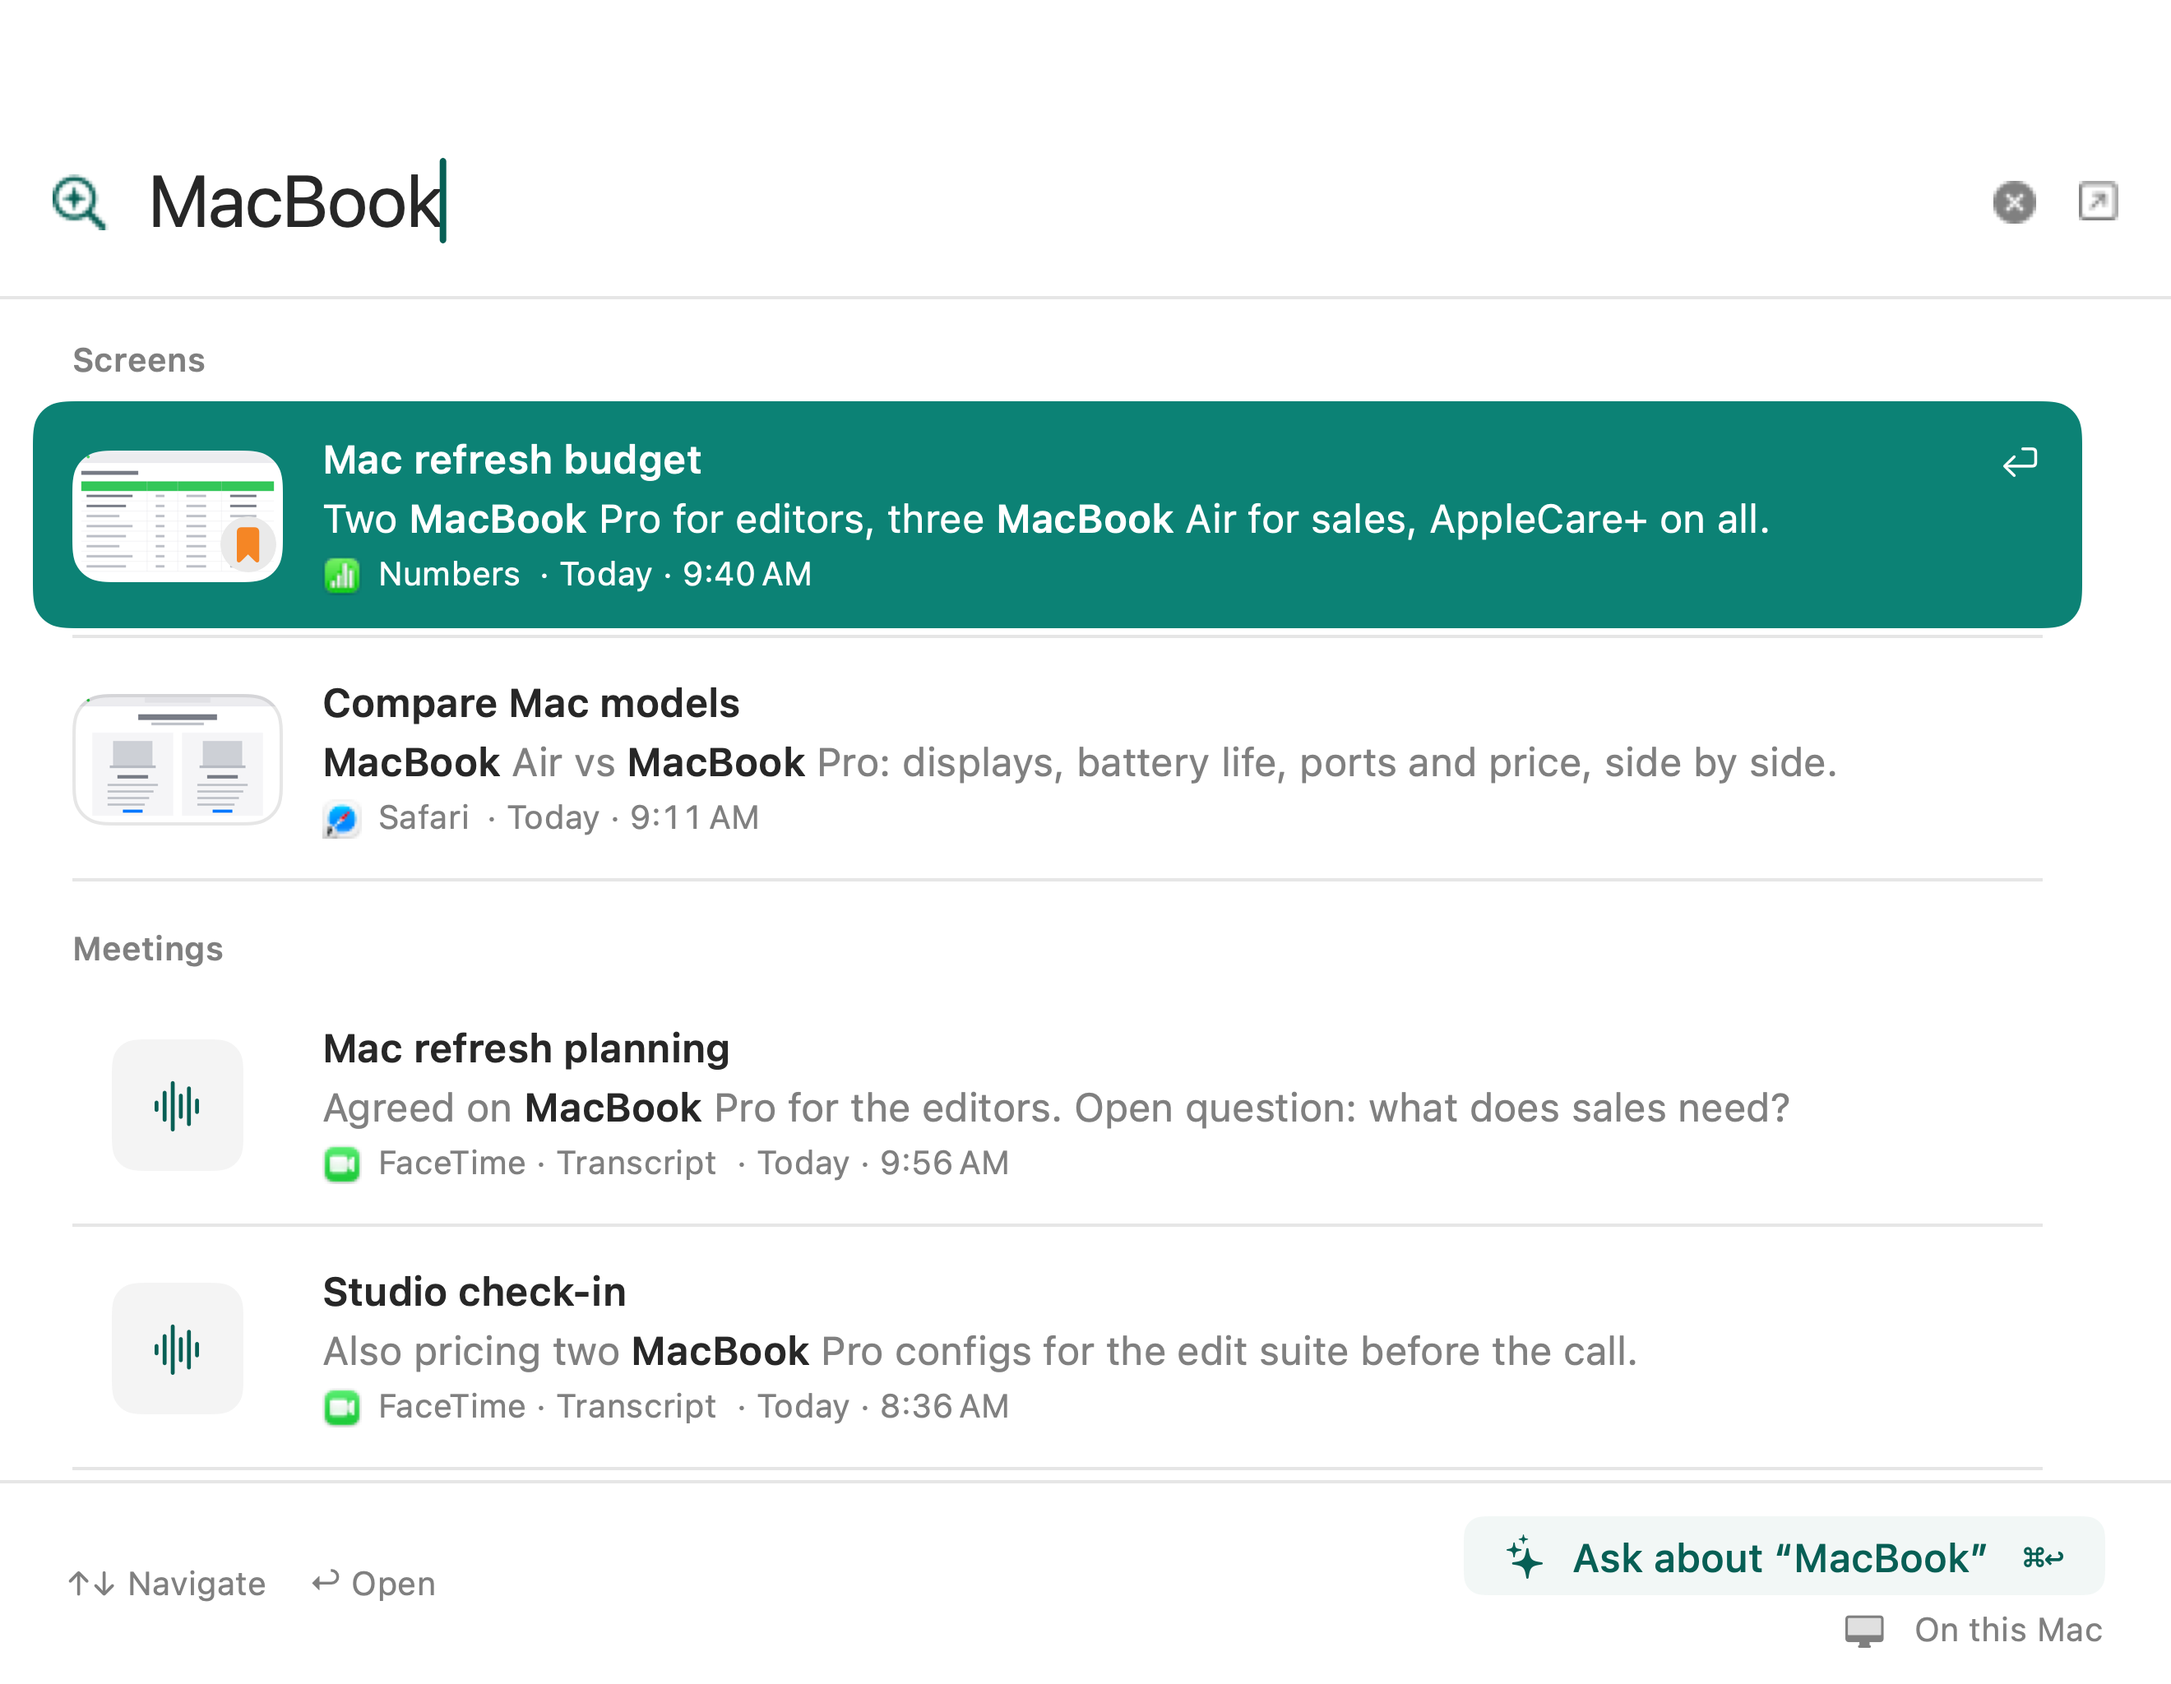
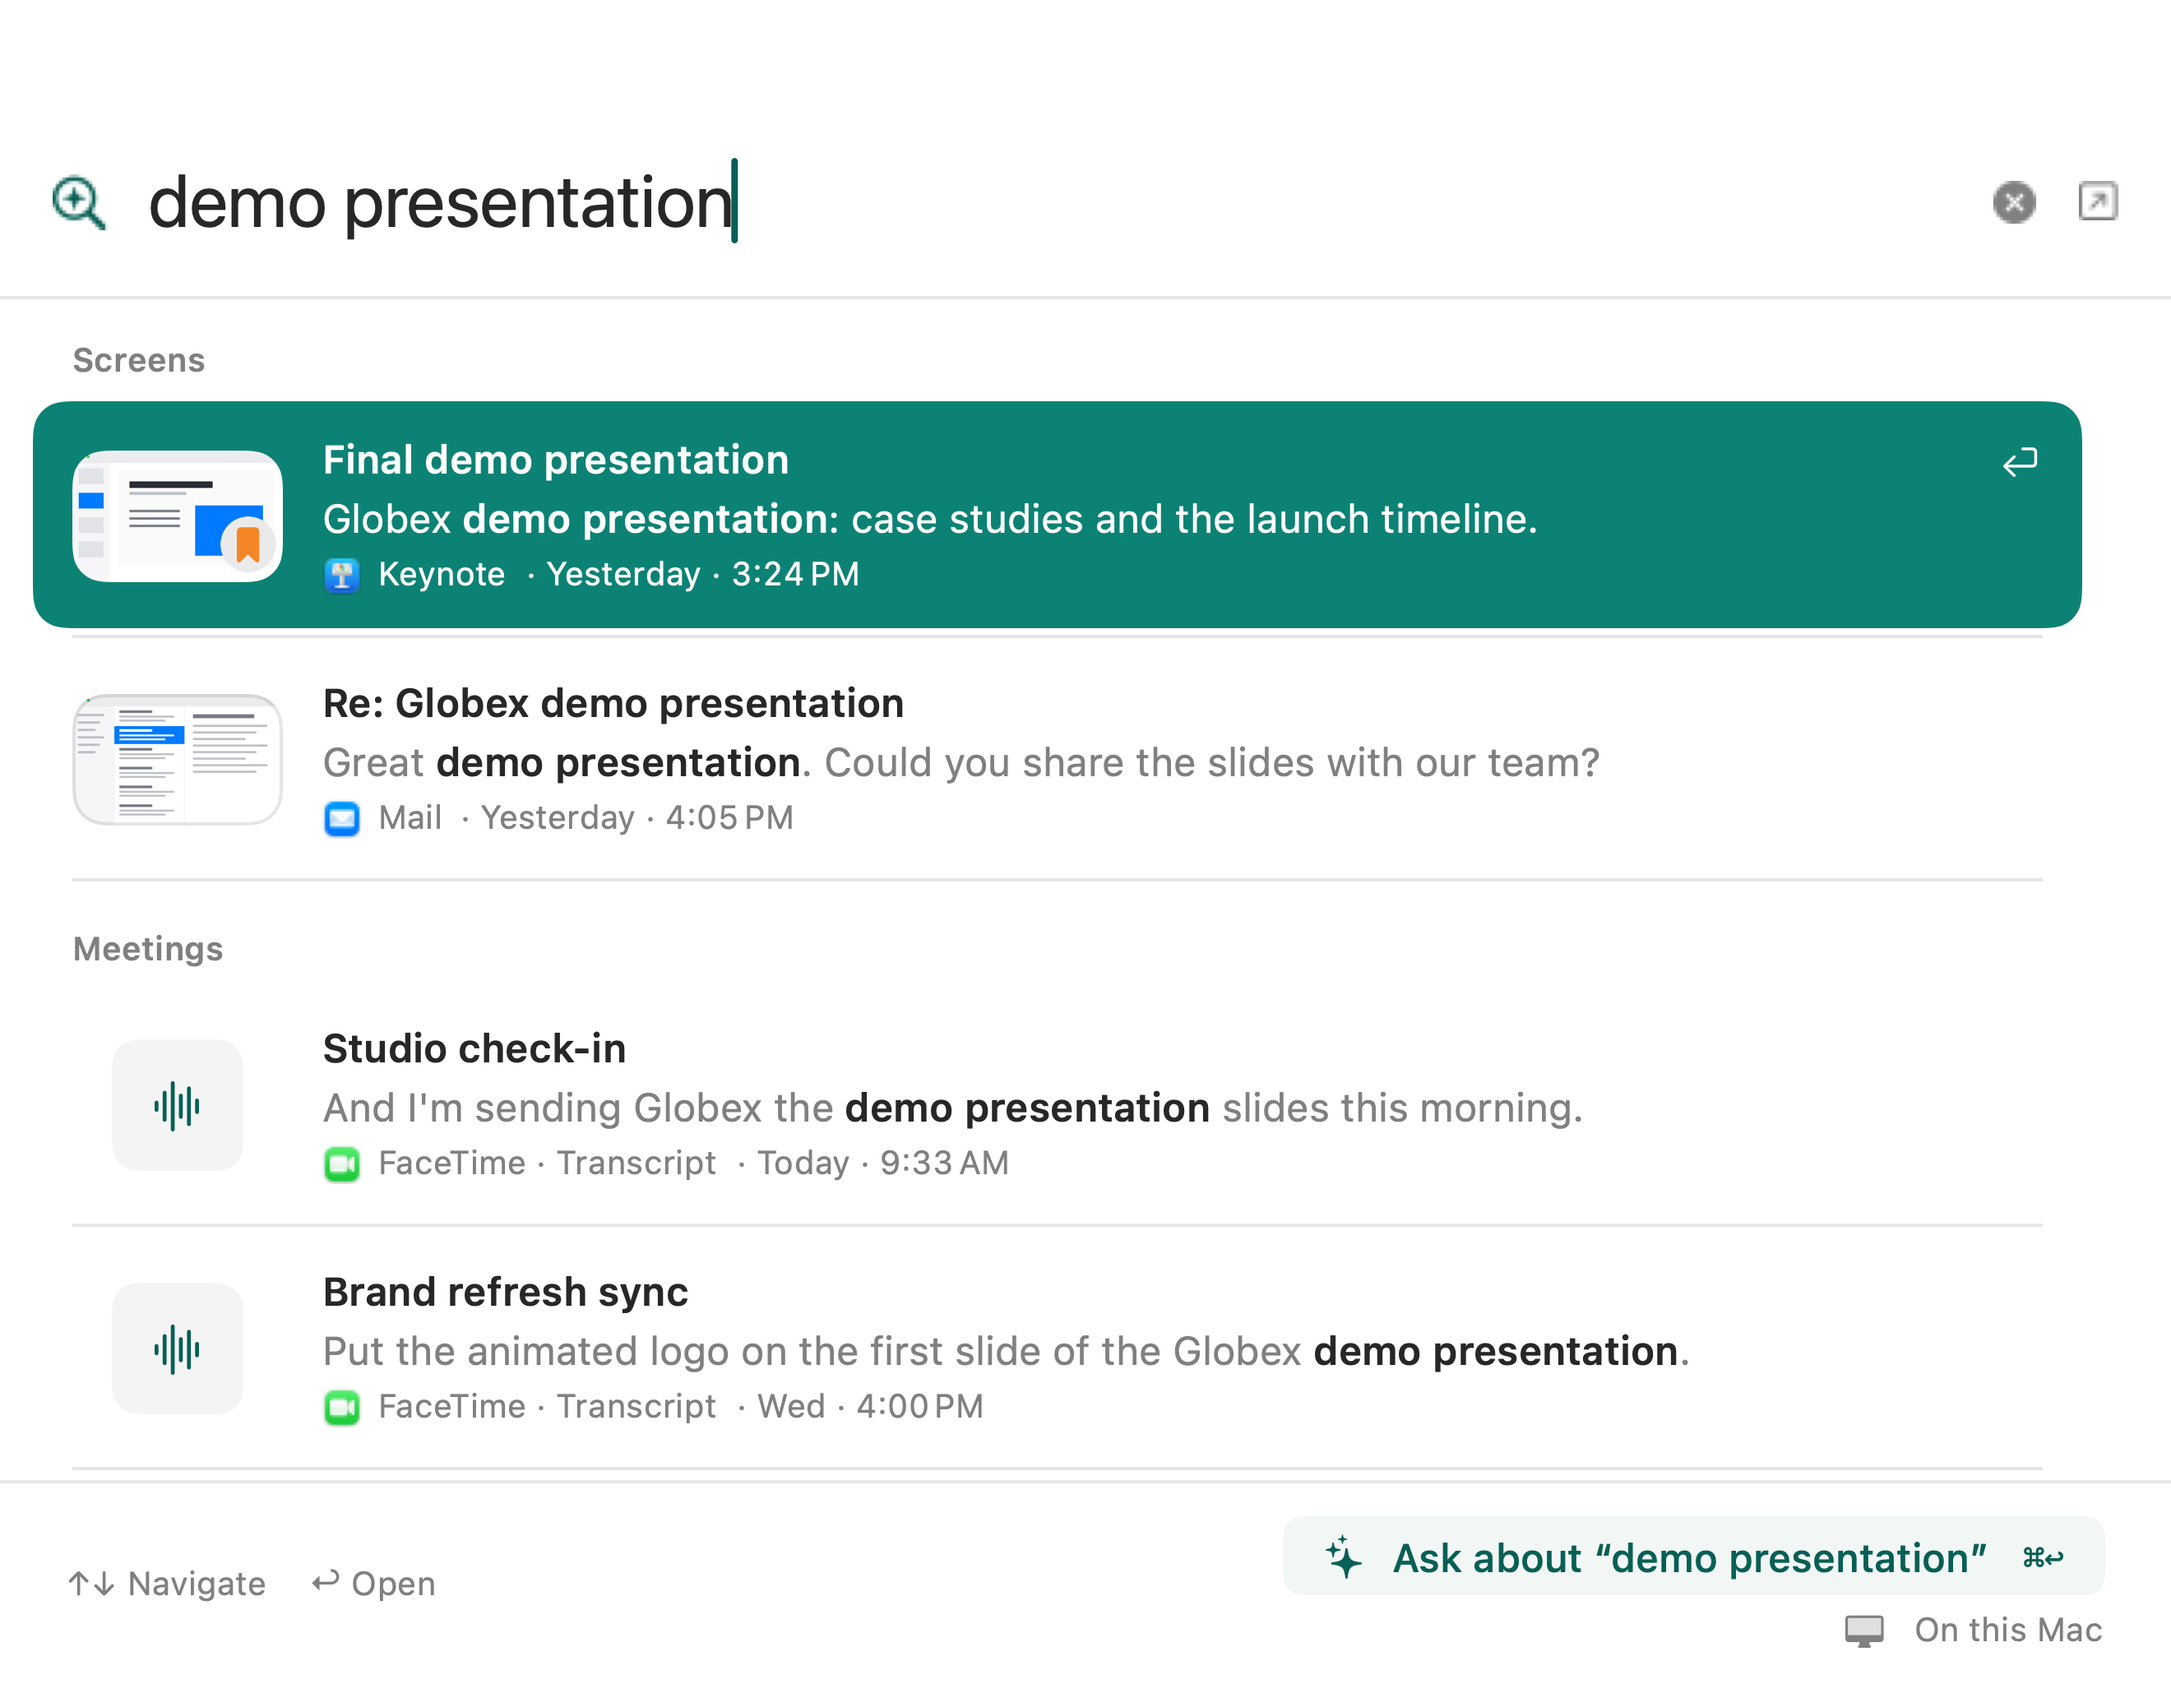
Search for a demo presentation in the homepage hero
The headline already ends "on your Mac", so a "MacBook" search beside it
repeated the word. The hero now searches "demo presentation": the saved
Globex deck in Keynote and the client's reply in Mail, then two FaceTime
calls that mention it.

The studio profile adds those two moments yesterday, outside the podcast
call so its README meeting window stays as captured, and one line each to
the brand refresh sync and the studio check-in. Today's data is unchanged, so
the other committed screenshots still match the profile.

diff --git a/web/index.html b/web/index.html
@@ -251,7 +251,7 @@
             <source srcset="assets/screens/quick-recall-phone-light.png" media="(max-width: 520px) and (prefers-color-scheme: light)" width="1600" height="1370" />
             <source srcset="assets/screens/quick-recall-phone.png" media="(max-width: 520px)" width="1600" height="1370" />
             <source srcset="assets/screens/quick-recall-light.png" media="(prefers-color-scheme: light)" width="2640" height="2048" />
-            <img src="assets/screens/quick-recall.png" width="2640" height="2048" alt="A MacBook search shows a saved Numbers budget, a Safari comparison page, FaceTime call transcripts, and a separate Ask action." fetchpriority="high" />
+            <img src="assets/screens/quick-recall.png" width="2640" height="2048" alt="A search for “demo presentation” shows a saved Keynote deck, a client reply in Mail, FaceTime call transcripts, and a separate Ask action." fetchpriority="high" />
           </picture>
         </a>
         <figcaption>One search across saved moments, screen text, and meetings.</figcaption>

diff --git a/Scripts/seed_demo_library.py b/Scripts/seed_demo_library.py
@@ -749,9 +749,11 @@ def build_studio(now):
     """A small video studio's meetings: FaceTime calls and Apple apps instead of
     engineering work. Each captured surface gets its own topic: the holiday
     shoot (website meeting and README hero), the podcast trailer (README
-    meeting section), the Mac refresh ("MacBook" search) and delivery captions
-    ("captions" search). Keep "MacBook" and "captions" out of other meetings so
-    those searches return the intended rows."""
+    meeting section), the Globex demo presentation (the website's "demo
+    presentation" search), the Mac refresh ("MacBook" search) and delivery
+    captions ("captions" search). Keep "MacBook", "captions" and "demo
+    presentation" out of other meetings so those searches return the intended
+    rows."""
     def ago(days, hour, minute=0):
         base = now - timedelta(days=days)
         return base.replace(hour=hour, minute=minute, second=0, microsecond=0)
@@ -801,6 +803,7 @@ def build_studio(now):
               seg(0, 9, "me", "Quick check-in. I'm finishing the Northwind holiday cut today."),
               seg(9, 20, "me", "Blocker: 4K exports still crawl on the old laptops."),
               seg(20, 32, "me", "Also pricing two MacBook Pro configs for the edit suite before the call."),
+              seg(32, 44, "me", "And I'm sending Globex the demo presentation slides this morning."),
           ],
           "## TL;DR\nThe Northwind holiday cut wraps today; slow exports on the old laptops are the blocker.\n\n"
           "## Action items\n- [ ] Finish the Northwind holiday cut — Me\n- [ ] Price two laptop configs for the edit suite — Me"),
@@ -842,6 +845,7 @@ def build_studio(now):
               seg(0, 16, "me", "The new logo lockups shipped. The remaining gap is the motion version."),
               seg(16, 34, "them", "I'll deliver the animated logo in Keynote and as a ProRes file by Friday."),
               seg(34, 50, "me", "Then we can close the brand refresh next week."),
+              seg(50, 64, "them", "Put the animated logo on the first slide of the Globex demo presentation."),
           ],
           "## TL;DR\nThe brand refresh is nearly done; the animated logo lands Friday.\n\n"
           "## Action items\n- [ ] Animated logo in Keynote and ProRes — Them"),
@@ -1067,7 +1071,9 @@ def seed_studio_activity(root):
             ("Google Meet", "Podcast trailer review", 10 * 60 + 15, 10 * 60 + 45),
             ("Keynote", "Holiday campaign deck", 11 * 60, 12 * 60 + 30),
             ("Safari", "AppleCare for business", 13 * 60 + 30, 14 * 60 + 45),
-            ("Messages", "Studio team", 14 * 60 + 45, 15 * 60 + 10)],
+            ("Messages", "Studio team", 14 * 60 + 45, 15 * 60 + 10),
+            ("Keynote", "Globex demo presentation", 15 * 60 + 15, 15 * 60 + 35),
+            ("Mail", "Re: Globex demo presentation", 16 * 60, 16 * 60 + 15)],
         2: [("Microsoft Teams", "Client call - Northwind", 9 * 60 + 45, 10 * 60 + 25),
             ("Pages", "Delivery checklist", 10 * 60 + 30, 12 * 60),
             ("FaceTime", "Brand refresh sync", 14 * 60, 14 * 60 + 30),
@@ -1086,33 +1092,42 @@ def seed_studio_activity(root):
             cur.execute("INSERT INTO activity_blocks (app,title,start,end) VALUES (?,?,?,?)",
                         (app, title, midnight + a * 60, midnight + b * 60))
 
-    shot_dir = os.path.join(root, "activity", datetime.now().strftime("%Y-%m-%d"), "demo")
-    os.makedirs(shot_dir, exist_ok=True)
+    yesterday = time.mktime((datetime.now() - timedelta(days=1))
+                            .replace(hour=0, minute=0, second=0, microsecond=0).timetuple())
+    # (app, window title, time, screen text, thumbnail, accent, bookmark note).
+    # Yesterday's demo presentation moments stay outside the podcast call, so
+    # its meeting window has no "On Screen During the Meeting" section.
     shots = [
-        ("Keynote", "Northwind pitch deck", 236,
+        ("Keynote", "Northwind pitch deck", now - 236 * 60,
          "Northwind holiday campaign: three hero shots, one story, all shot on iPhone.",
-         "slide", (255, 159, 10)),
-        ("Safari", "Compare Mac models", 147,
+         "slide", (255, 159, 10), None),
+        ("Safari", "Compare Mac models", now - 147 * 60,
          "MacBook Air vs MacBook Pro: displays, battery life, ports and price, side by side.",
-         "web", (0, 122, 255)),
-        ("Numbers", "Studio budget 2026", 118,
+         "web", (0, 122, 255), None),
+        ("Numbers", "Studio budget 2026", now - 118 * 60,
          "Two MacBook Pro for editors, three MacBook Air for sales, AppleCare+ on all.",
-         "sheet", (52, 199, 89)),
-        ("Pages", "Delivery checklist", 74,
+         "sheet", (52, 199, 89), "Mac refresh budget"),
+        ("Pages", "Delivery checklist", now - 74 * 60,
          "Every client video ships with captions, an audio description track, and a vertical cut.",
-         "doc", (255, 149, 0)),
-        ("Mail", "Trade-in estimate", 64,
+         "doc", (255, 149, 0), None),
+        ("Mail", "Trade-in estimate", now - 64 * 60,
          "Your trade-in estimate for five laptops is ready and valid for 14 days.",
-         "mail", (0, 122, 255)),
-        ("Photos", "Northwind selects", 49,
+         "mail", (0, 122, 255), None),
+        ("Photos", "Northwind selects", now - 49 * 60,
          "Northwind selects: 42 photos, 6 favorites, shared with the studio.",
-         "photos", (255, 149, 0)),
+         "photos", (255, 149, 0), None),
+        ("Keynote", "Globex demo presentation", yesterday + (15 * 60 + 24) * 60,
+         "Globex demo presentation: case studies and the launch timeline.",
+         "slide", (0, 122, 255), "Final demo presentation"),
+        ("Mail", "Re: Globex demo presentation", yesterday + (16 * 60 + 5) * 60,
+         "Great demo presentation. Could you share the slides with our team?",
+         "mail", (0, 122, 255), None),
     ]
-    snapshot_ids = []
-    for index, (app, title, minutes_ago, text, kind, accent) in enumerate(shots, start=1):
+    for index, (app, title, timestamp, text, kind, accent, note) in enumerate(shots, start=1):
+        shot_dir = os.path.join(root, "activity", datetime.fromtimestamp(timestamp).strftime("%Y-%m-%d"), "demo")
+        os.makedirs(shot_dir, exist_ok=True)
         path = os.path.join(shot_dir, f"scene-{index}.png")
         write_light_window_png(path, kind, accent)
-        timestamp = now - minutes_ago * 60
         cur.execute("""
             INSERT INTO screenshots (
                 ts, path, app, window_title, capture_trigger, perceptual_hash,
@@ -1121,14 +1136,14 @@ def seed_studio_activity(root):
             VALUES (?, ?, ?, ?, ?, '', ?, '', ?, '', 0)
             """, (timestamp, path, app, title, "window_change", index, title))
         snapshot_id = cur.lastrowid
-        snapshot_ids.append(snapshot_id)
         cur.execute("""
             INSERT INTO ocr_fts (
                 text, window_title, ts, app, text_source, snapshot_id)
             VALUES (?, ?, ?, ?, 'accessibility', ?)
             """, (text, title, timestamp, app, snapshot_id))
-    cur.execute("INSERT INTO screen_bookmarks (snapshot_id, note, created_at) VALUES (?, ?, ?)",
-                (snapshot_ids[2], "Mac refresh budget", now - 110 * 60))
+        if note:
+            cur.execute("INSERT INTO screen_bookmarks (snapshot_id, note, created_at) VALUES (?, ?, ?)",
+                        (snapshot_id, note, timestamp + 8 * 60))
     con.commit()
     con.close()
     return len(shots)

diff --git a/Scripts/tests/test_seed_demo_library.py b/Scripts/tests/test_seed_demo_library.py
@@ -175,6 +175,7 @@ class SeedProfileTests(unittest.TestCase):
         self.assertEqual(meetings_saying("macbook"), {"Mac refresh planning", "Studio check-in"})
         self.assertEqual(meetings_saying("captions"),
                          {"Client call - Northwind", "Weekly production sync", "Accessibility review"})
+        self.assertEqual(meetings_saying("demo presentation"), {"Studio check-in", "Brand refresh sync"})
 
         con = sqlite3.connect(os.path.join(self.root, "lokalbotv3.sqlite"))
         self.addCleanup(con.close)
@@ -185,7 +186,10 @@ class SeedProfileTests(unittest.TestCase):
 
         self.assertEqual(screens_showing("macbook"), {"Compare Mac models", "Studio budget 2026"})
         self.assertEqual(screens_showing("captions"), {"Delivery checklist"})
-        self.assertEqual(con.execute("SELECT note FROM screen_bookmarks").fetchall(), [("Mac refresh budget",)])
+        self.assertEqual(screens_showing('"demo presentation"'),
+                         {"Globex demo presentation", "Re: Globex demo presentation"})
+        self.assertEqual({note for (note,) in con.execute("SELECT note FROM screen_bookmarks")},
+                         {"Mac refresh budget", "Final demo presentation"})
         self.assertLess(con.execute("SELECT MAX(ts) FROM screenshots").fetchone()[0], now)
         self.assertLess(con.execute("SELECT MAX(end) FROM activity_blocks").fetchone()[0], now)
         for (path,) in con.execute("SELECT path FROM screenshots"):
@@ -200,6 +204,15 @@ class SeedProfileTests(unittest.TestCase):
                       for key in ("startedAt", "endedAt"))
         (photos,) = con.execute("SELECT ts FROM screenshots WHERE app = 'Photos'").fetchone()
         self.assertTrue(start < photos < end)
+
+        # Nothing was on screen during the podcast call, which the README shows
+        # without an "On Screen During the Meeting" section.
+        with open(os.path.join(folders["Podcast trailer review"][0], "meta.json")) as f:
+            meta = json.load(f)
+        start, end = (datetime.fromisoformat(meta[key].replace("Z", "+00:00")).timestamp()
+                      for key in ("startedAt", "endedAt"))
+        self.assertEqual(con.execute("SELECT COUNT(*) FROM screenshots WHERE ts BETWEEN ? AND ?",
+                                     (start, end)).fetchone()[0], 0)
 
 if __name__ == "__main__":
     unittest.main()

diff --git a/Docs/screenshot-kit.md b/Docs/screenshot-kit.md
@@ -91,7 +91,7 @@ frame in each appearance with the environment from `capture()` in
 
 | Files | Settings |
 | --- | --- |
-| `quick-recall.png`, `quick-recall-light.png` | `LOKALBOT_UI_TEST_WINDOW=quick-recall LOKALBOT_QUICK_RECALL_QUERY=MacBook LOKALBOT_CAPTURE_SIZE=660x512 LOKALBOT_CAPTURE_SCALE=4` |
+| `quick-recall.png`, `quick-recall-light.png` | `LOKALBOT_UI_TEST_WINDOW=quick-recall LOKALBOT_QUICK_RECALL_QUERY="demo presentation" LOKALBOT_CAPTURE_SIZE=660x512 LOKALBOT_CAPTURE_SCALE=4` |
 | `screen-search.png`, `screen-search-light.png` | the same with `LOKALBOT_QUICK_RECALL_QUERY=captions` |
 | `meetings-summary.png`, `meetings-summary-light.png` | `LOKALBOT_INITIAL_SECTION=meetings LOKALBOT_SELECT_INDEX=0 LOKALBOT_DETAIL_TAB=summary LOKALBOT_CAPTURE_SIZE=1400x932` |
 | `today.png`, `today-light.png` | `LOKALBOT_INITIAL_SECTION=today LOKALBOT_CAPTURE_SIZE=1400x932` |
